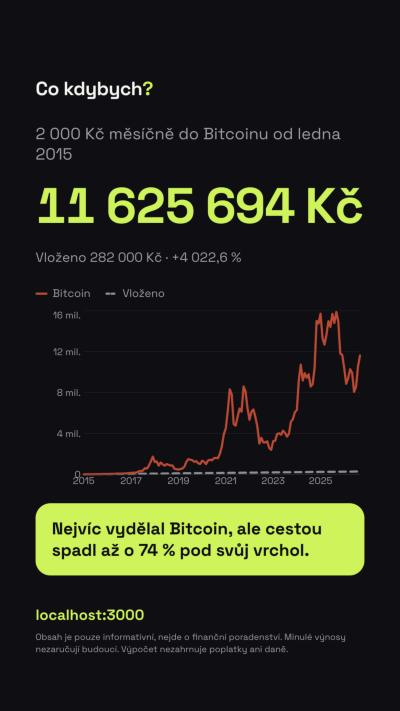
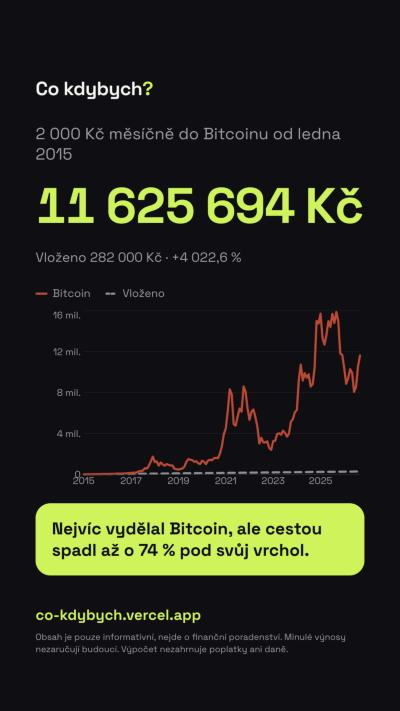
Link the live site in README and refresh the story screenshot
- README: live URL and an example shared link
- docs/story.jpg: story image captured on production, showing the real
  site URL instead of localhost
- CLAUDE.md: production URL and auto-deploy note

Changed region(s): [[0.09, 0.8354, 0.51, 0.8973]]

diff --git a/README.md b/README.md
@@ -6,7 +6,7 @@ Webová kalkulačka pro mladé Čechy. Zadáš měsíční částku, od kdy a do
 
 _A Czech "what if I had invested" calculator: regular monthly investing into the S&P 500, gold, Bitcoin, a savings account or cash, on real monthly data, nominal or inflation-adjusted, with shareable links and an Instagram story image generated in the browser._
 
-**Živá verze:** _(doplň odkaz po nasazení na Vercel)_
+**Živá verze: [co-kdybych.vercel.app](https://co-kdybych.vercel.app)** · příklad sdíleného odkazu: [5 000 Kč měsíčně od roku 2020 v dnešních korunách](https://co-kdybych.vercel.app/?mesicne=5000&od=2020-01&aktiva=sp500,zlato,bitcoin,sporak,hotovost&realne=1)
 
 | Počítač | Mobil: zadání | Mobil: výsledky | Story obrázek |
 | --- | --- | --- | --- |

diff --git a/CLAUDE.md b/CLAUDE.md
@@ -12,6 +12,9 @@ behind important decisions.
 The site is intentionally NOT tied to the owner's personal social profile: no handle anywhere in
 the UI or on the share image (the image shows the site URL instead).
 
+Production: https://co-kdybych.vercel.app (Vercel, deploys automatically on every push to `main`;
+repo github.com/Filas1/co-kdybych).
+
 ## Commands
 
 - `npm run dev` – dev server on http://localhost:3000
